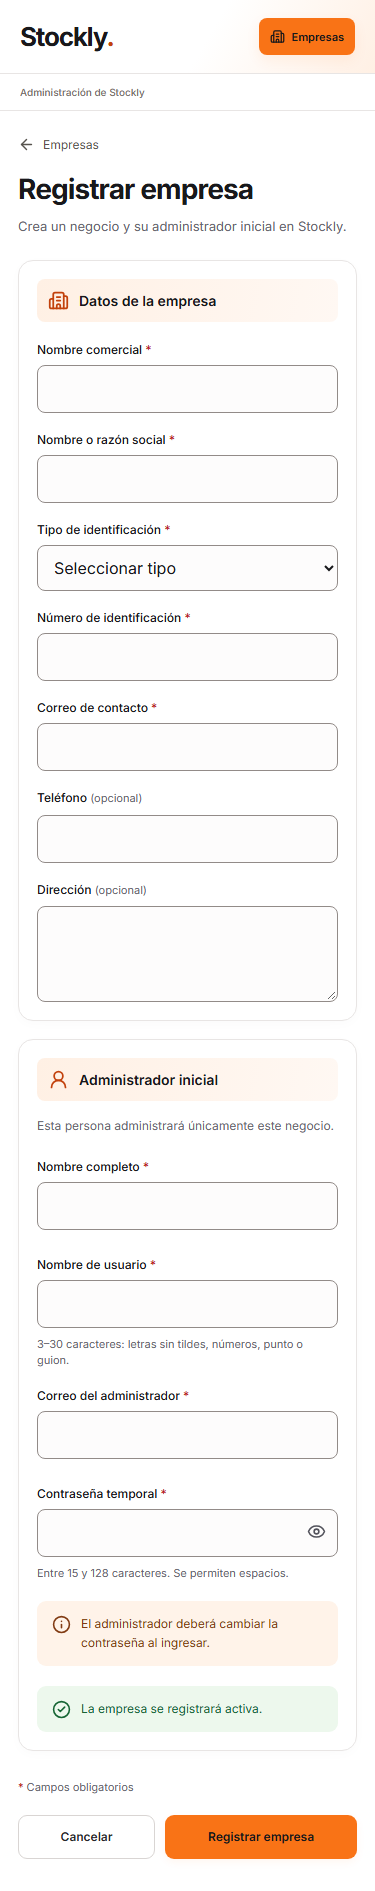
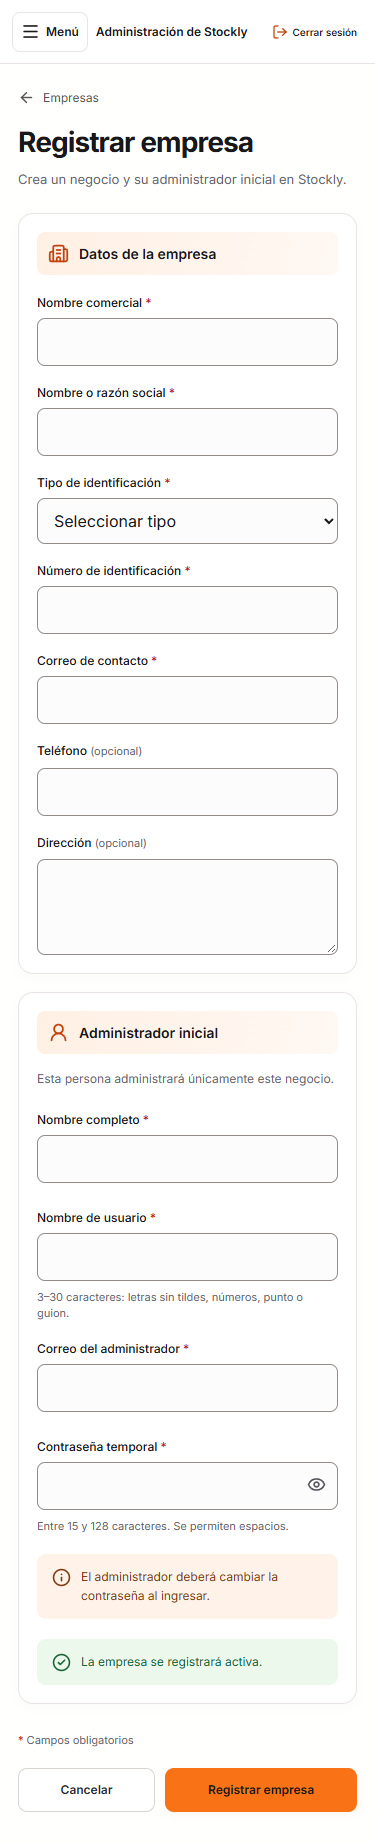
STK-004 | Empresas y espacios de trabajo independientes
Verificación con el ingreso real de STK-005 y aprobación final del propietario.
- companies.spec.ts adaptado a la sesión de STK-005 y la suscripción de STK-018.
- Recorrido real 27/27 y Playwright 6/6; capturas regeneradas.
- ADR-011: respaldos al desplegar; auditoría WCAG como mejora general.

diff --git a/frontend/e2e/companies.spec.ts b/frontend/e2e/companies.spec.ts
@@ -31,7 +31,46 @@ const fixture = (n = 1): Company => ({
   },
 });
 
+// Sesión del administrador de Stockly (STK-005). Las demás llamadas (suscripciones de STK-018) responden vacío.
+async function mockSaasSession(page: Page) {
+  await page.route("**/api/**", (route) => {
+    const path = new URL(route.request().url()).pathname;
+    if (path === "/api/auth/csrf")
+      return route.fulfill({ json: { csrfToken: "t", csrfHeaderName: "X-CSRF-TOKEN" } });
+    const subscription = path.match(/^\/api\/saas\/companies\/([^/]+)\/subscription$/);
+    if (subscription)
+      return route.fulfill({
+        json: {
+          documents: [],
+          subscription: {
+            companyId: subscription[1], companyName: "", legalName: "", state: "TRIAL",
+            planId: null, planName: null, cycle: null, price: null,
+            trialEndsOn: "2026-11-19", paidUntil: null, expiresOn: "2026-11-19", suspendsOn: "2026-11-26",
+            limited: true, cancelledAt: null, cancelReason: null, createdAt: "2026-11-05T16:00:00Z",
+            payments: [], noticesSent: [], version: 0,
+          },
+        },
+      });
+    if (path === "/api/saas/subscriptions") return route.fulfill({ json: [] });
+    return path === "/api/auth/me"
+      ? route.fulfill({
+          json: {
+            id: "saas",
+            companyId: null,
+            role: "SAAS_ADMIN",
+            fullName: "Administración Stockly",
+            email: "saas@example.invalid",
+            mustChangePassword: false,
+            modules: [],
+            specialPermissions: [],
+          },
+        })
+      : route.fulfill({ status: 404, json: { message: "Sin datos." } });
+  });
+}
+
 async function mockApi(page: Page) {
+  await mockSaasSession(page);
   let companies = [fixture(1), fixture(2), fixture(3)];
   const mutations: string[] = [];
   await page.route("**/api/companies**", async (route) => {
@@ -226,21 +265,17 @@ test("registro, edición, suspensión, reactivación y borrado confirmado", asyn
   ]);
 });
 
-test("sin sesión muestra acceso restringido, sin login inventado", async ({
-  page,
-}) => {
-  await page.route("**/api/companies**", (route) =>
-    route.fulfill({
+test("sin sesión pide ingresar y no consulta empresas", async ({ page }) => {
+  const requested: string[] = [];
+  await page.route("**/api/**", (route) => {
+    requested.push(new URL(route.request().url()).pathname);
+    return route.fulfill({
       status: 401,
-      json: {
-        code: "UNAUTHENTICATED",
-        message: "Inicia sesión para continuar.",
-      },
-    }),
-  );
+      json: { code: "UNAUTHENTICATED", message: "Inicia sesión para continuar." },
+    });
+  });
   await page.goto("/companies");
-  await expect(page.getByRole("alert")).toContainText("Acceso restringido");
-  await expect(page.getByRole("textbox", { name: /contraseña/i })).toHaveCount(
-    0,
-  );
+  await expect(page.getByRole("button", { name: /Ingresar|Iniciar sesión/ })).toBeVisible();
+  await expect(page.getByText("Ferretería El Sol")).toHaveCount(0);
+  expect(requested.some((p) => p.startsWith("/api/companies"))).toBe(false);
 });

diff --git a/docs/03-Tasks/STK-004/TASKS.md b/docs/03-Tasks/STK-004/TASKS.md
@@ -1,6 +1,6 @@
 # TASKS — STK-004 | Gestión de empresas
 
-Estado: revisión local de la demo aprobada por el propietario el 2026-11-05; en espera de integración STK-005 y validación operativa. T01–04 verificadas; resto pendiente de integración/validación. Evidencia: ../../04-Testing/STK-004/TEST-STK-004.md. Referencias: ../../01-Specs/STK-004/SPEC.md y ../../02-Plans/STK-004/PLAN.md. Orden de ejecución: cierre → base/BD → backend/seguridad → frontend → pruebas → validación.
+Estado: revisión local de la demo aprobada por el propietario el 2026-11-05. Integración con STK-005 verificada el 2026-11-09; T01–10 verificadas; aprobación final del propietario el 2026-11-09. Decisiones de cierre en ../../05-Decisions/ADR-011.md. Evidencia: ../../04-Testing/STK-004/TEST-STK-004.md. Referencias: ../../01-Specs/STK-004/SPEC.md y ../../02-Plans/STK-004/PLAN.md. Orden de ejecución: cierre → base/BD → backend/seguridad → frontend → pruebas → validación.
 
 ## Cierre previo
 
@@ -14,21 +14,21 @@ Estado: revisión local de la demo aprobada por el propietario el 2026-11-05; en
 
 - [x] T03 Alta atómica y validaciones de empresa/administrador según tabla aprobada de SPEC, incluidas longitudes y normalización para unicidad. Depende T02. Termina con AC-01/02 verificados.
 - [x] T04 Listado, filtros, detalle y edición. Depende T03. Termina con contratos aprobados y AC-03/04 verificados.
-- [ ] T05 Suspensión, reactivación y eliminación confirmada. Depende T04 y contrato de acceso STK-005; aplicar política de borrado del PLAN. Termina con AC-05/06 verificados.
+- [x] T05 Suspensión, reactivación y eliminación confirmada. Depende T04 y contrato de acceso STK-005; aplicar política de borrado del PLAN. Termina con AC-05/06 verificados. — Verificada con sesiones reales el 2026-11-09; respaldos productivos al desplegar (ADR-011).
 
 ## Seguridad
 
-- [ ] T06 Integrar autorización real, aislamiento y tratamiento seguro de contraseña temporal. Depende T02 y contrato STK-005. Debe acompañar T03–T05; termina con AC-07 verificado, sin rutas administrativas sin protección.
+- [x] T06 Integrar autorización real, aislamiento y tratamiento seguro de contraseña temporal. Depende T02 y contrato STK-005. Debe acompañar T03–T05; termina con AC-07 verificado, sin rutas administrativas sin protección. — Verificada con sesiones reales el 2026-11-09.
 
 ## Frontend
 
-- [ ] T07 Listado, detalle, registro y edición responsive según mockups. Depende T03/04/06. Termina con flujos y estados aprobados, sin exponer credenciales.
-- [ ] T08 Diálogos de suspensión/reactivación/borrado y manejo de errores/reintentos. Depende T05/06/07. Termina con confirmaciones y navegación por teclado verificadas.
+- [x] T07 Listado, detalle, registro y edición responsive según mockups. Depende T03/04/06. Termina con flujos y estados aprobados, sin exponer credenciales. — Playwright a 375 y 1440 px, 2026-11-09.
+- [x] T08 Diálogos de suspensión/reactivación/borrado y manejo de errores/reintentos. Depende T05/06/07. Termina con confirmaciones y navegación por teclado verificadas. — Playwright, 2026-11-09.
 
 ## Pruebas
 
-- [ ] T09 Consolidar pruebas unitarias, integración, API y flujos UI; ejecutar concurrencia y regresión relevante. Depende T03–T08. Incluir pruebas de tipos de identificación, versiones concurrentes y restauración sin reactivar empresas eliminadas. Termina con AC-01–08 comprobados y evidencia en 04-Testing; corregir y repetir si falla.
+- [x] T09 Consolidar pruebas unitarias, integración, API y flujos UI; ejecutar concurrencia y regresión relevante. Depende T03–T08. Incluir pruebas de tipos de identificación, versiones concurrentes y restauración sin reactivar empresas eliminadas. Termina con AC-01–08 comprobados y evidencia en 04-Testing; corregir y repetir si falla. — Recorrido real 27/27 y Playwright 6/6 el 2026-11-09; las de integración con Testcontainers son de la entrega anterior.
 
 ## Validación final
 
-- [ ] T10 Revisar localmente con propietario, verificar SPEC completa, construcción y pruebas; actualizar checkboxes solo con evidencia. Depende T09. Obtener aprobación final antes de Finalizado; GitHub y Trello se actualizan con autorización correspondiente.
+- [x] T10 Revisar localmente con propietario, verificar SPEC completa, construcción y pruebas; actualizar checkboxes solo con evidencia. Depende T09. Obtener aprobación final antes de Finalizado; GitHub y Trello se actualizan con autorización correspondiente. — Aprobación final del propietario el 2026-11-09 («aprobado push a esta stk verificada y 100% funcional»).

diff --git a/docs/04-Testing/STK-004/TEST-STK-004.md b/docs/04-Testing/STK-004/TEST-STK-004.md
@@ -60,3 +60,43 @@ El simulador está en frontend/demo/server.ts y se registra solo en configureSer
 El propietario confirmó: «Listo, todo aprobado, todo funciono bien», después de probar la demostración local. Quedan aprobadas la interfaz y las operaciones simuladas presentadas de STK-004; no se solicitaron ajustes.
 
 Esta aprobación cierra la revisión de la demo. Se conserva pendiente la integración con autenticación/sesiones reales de STK-005, las comprobaciones operativas de respaldos y los criterios no verificados. No equivale a autorizar commits, push o despliegues, ni a completar automáticamente las tareas dependientes. El siguiente trabajo funcional corresponde a definir STK-005 mediante el flujo SDD.
+
+## Integración con el ingreso real (STK-005) — 2026-11-09
+
+Con STK-005 ya integrado, se verificó STK-004 contra React, Spring Boot y MySQL (`stockly_demo`) con sesiones reales. Se usó el código de `main` en `517d821`. Las decisiones de cierre están en [ADR-011](../../05-Decisions/ADR-011.md).
+
+### Recorrido real
+
+Pasaron 27 de 27 comprobaciones. El script no imprime contraseñas ni códigos.
+
+- **Alta (AC-01/02):** se creó una empresa activa con su administrador. La respuesta no incluye la contraseña. Una identificación repetida devuelve 409.
+- **Primer ingreso:** el administrador nuevo entra con la contraseña temporal, cambia la contraseña de forma obligatoria y queda ligado solo a su empresa (`COMPANY_ADMIN`).
+- **Permisos y aislamiento (AC-07):**
+  - sin sesión, `/api/companies` responde 401;
+  - el administrador de empresa recibe 403 en `/api/companies`, en el detalle de empresas y en `/api/saas`;
+  - una venta o la imagen de un producto de otra empresa, pedidas por su ID, responden 404.
+- **Suspensión (AC-05):**
+  - con la sesión abierta en el navegador y el equipo desconectado, se suspende la empresa;
+  - al reconectar, el equipo vuelve a la pantalla de ingreso;
+  - la sesión abierta queda invalidada (401) y un ingreso nuevo se rechaza.
+- **Reactivación (AC-05):** la sesión invalidada no vuelve. Un ingreso nuevo sí funciona.
+- **Eliminación (AC-06):**
+  - un nombre incorrecto no elimina (400);
+  - el nombre exacto, aun con espacios exteriores, elimina (204);
+  - la empresa desaparece, la sesión y el ingreso del administrador dejan de funcionar;
+  - el registro de borrado queda en `COMMITTED`, sin datos personales;
+  - la otra empresa de la base conservó sus productos y ventas.
+
+### Pruebas automáticas
+
+- **Playwright:** `companies.spec.ts` se actualizó a la sesión de STK-005 y a la suscripción de STK-018, que antes lo hacían fallar.
+  - Pasan las 6 pruebas en Edge a 375 y 1440 px: listado, filtros, registro, edición, suspensión, reactivación, borrado confirmado, Escape con foco restaurado y la pantalla de ingreso sin sesión.
+  - Las capturas de `screenshots/` se regeneraron con la interfaz actual.
+- **Base de datos:** `CompanyIntegrationTest`, con MySQL en Testcontainers, no se volvió a ejecutar en esta revisión porque requiere Docker. Su última corrida con éxito está registrada arriba.
+
+### Criterios
+
+- **AC-05 y AC-07:** verificados con sesiones reales.
+- **AC-06:** verificados el borrado, la confirmación y la conservación. Los respaldos productivos se configuran al desplegar (ADR-011).
+- **AC-08:** verificado con Playwright: escritorio y móvil, teclado, foco y diálogos. La auditoría WCAG completa queda como mejora general (ADR-011).
+- **Aprobación final:** el propietario revisó en local y aprobó el 2026-11-09: «aprobado push a esta stk verificada y 100% funcional».

diff --git a/docs/05-Decisions/ADR-011.md b/docs/05-Decisions/ADR-011.md
@@ -1,0 +1,7 @@
+# ADR-011 · Cierre de STK-004 sin respaldos productivos ni auditoría WCAG
+
+Estado: aprobado por el propietario el 2026-11-09. Se aplica a [STK-004](../01-Specs/STK-004/SPEC.md).
+
+- **Respaldos:** la infraestructura de respaldos cifrados, el vencimiento máximo de 30 días y el ensayo de recuperación se configuran al preparar el despliegue a producción. La política aprobada en el [PLAN de STK-004](../02-Plans/STK-004/PLAN.md) sigue vigente. Mientras no exista producción no hay respaldos que vencer. El borrado confirmado, su registro durable y la reconciliación tras restaurar ya están implementados y probados en local.
+- **Accesibilidad y logo:** STK-004 se cierra sin una auditoría WCAG completa. Teclado, foco, diálogos y errores accesibles se verificaron con Playwright. La auditoría completa queda como mejora general del producto. El recurso del logo ya existe en la aplicación (`/brand/stockly-caja.svg`).
+- **Verificación:** STK-004 se valida con el ingreso real de STK-005 contra el backend y MySQL, además del Playwright de Empresas actualizado.
